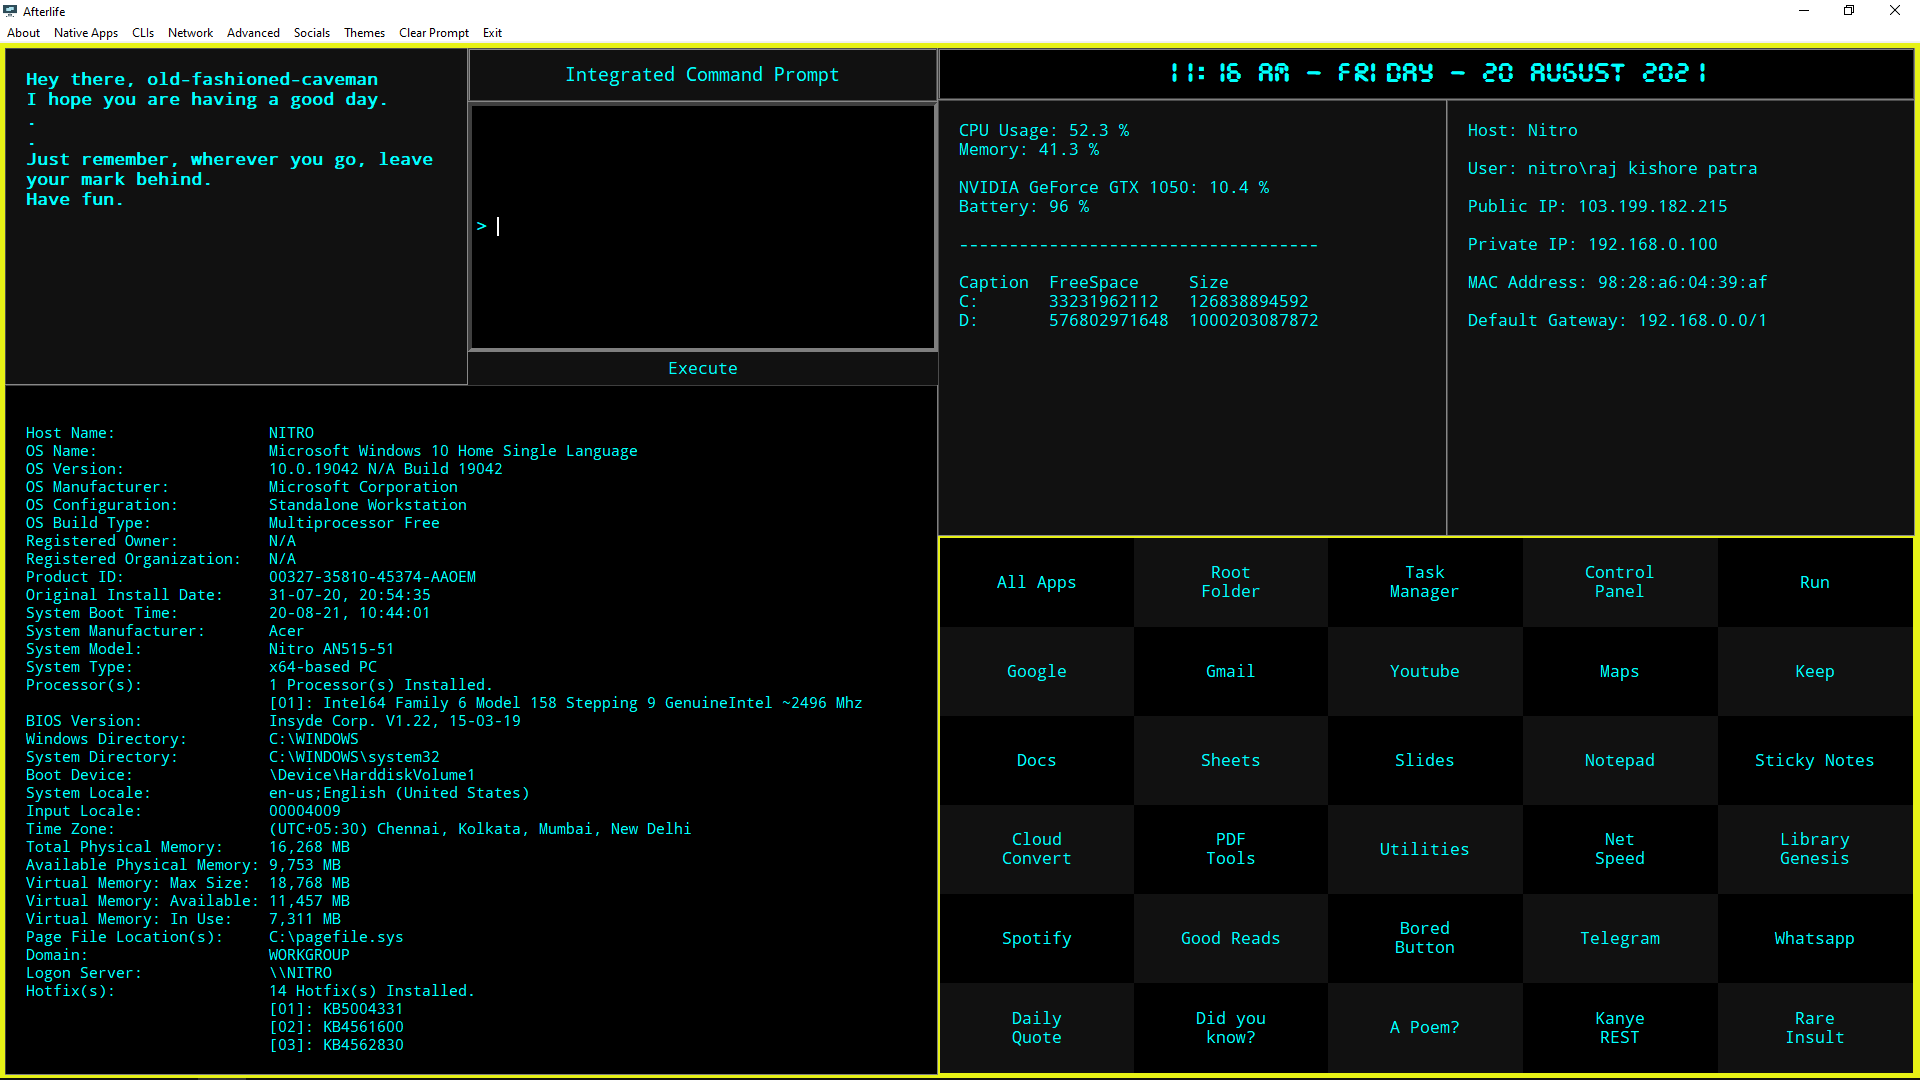
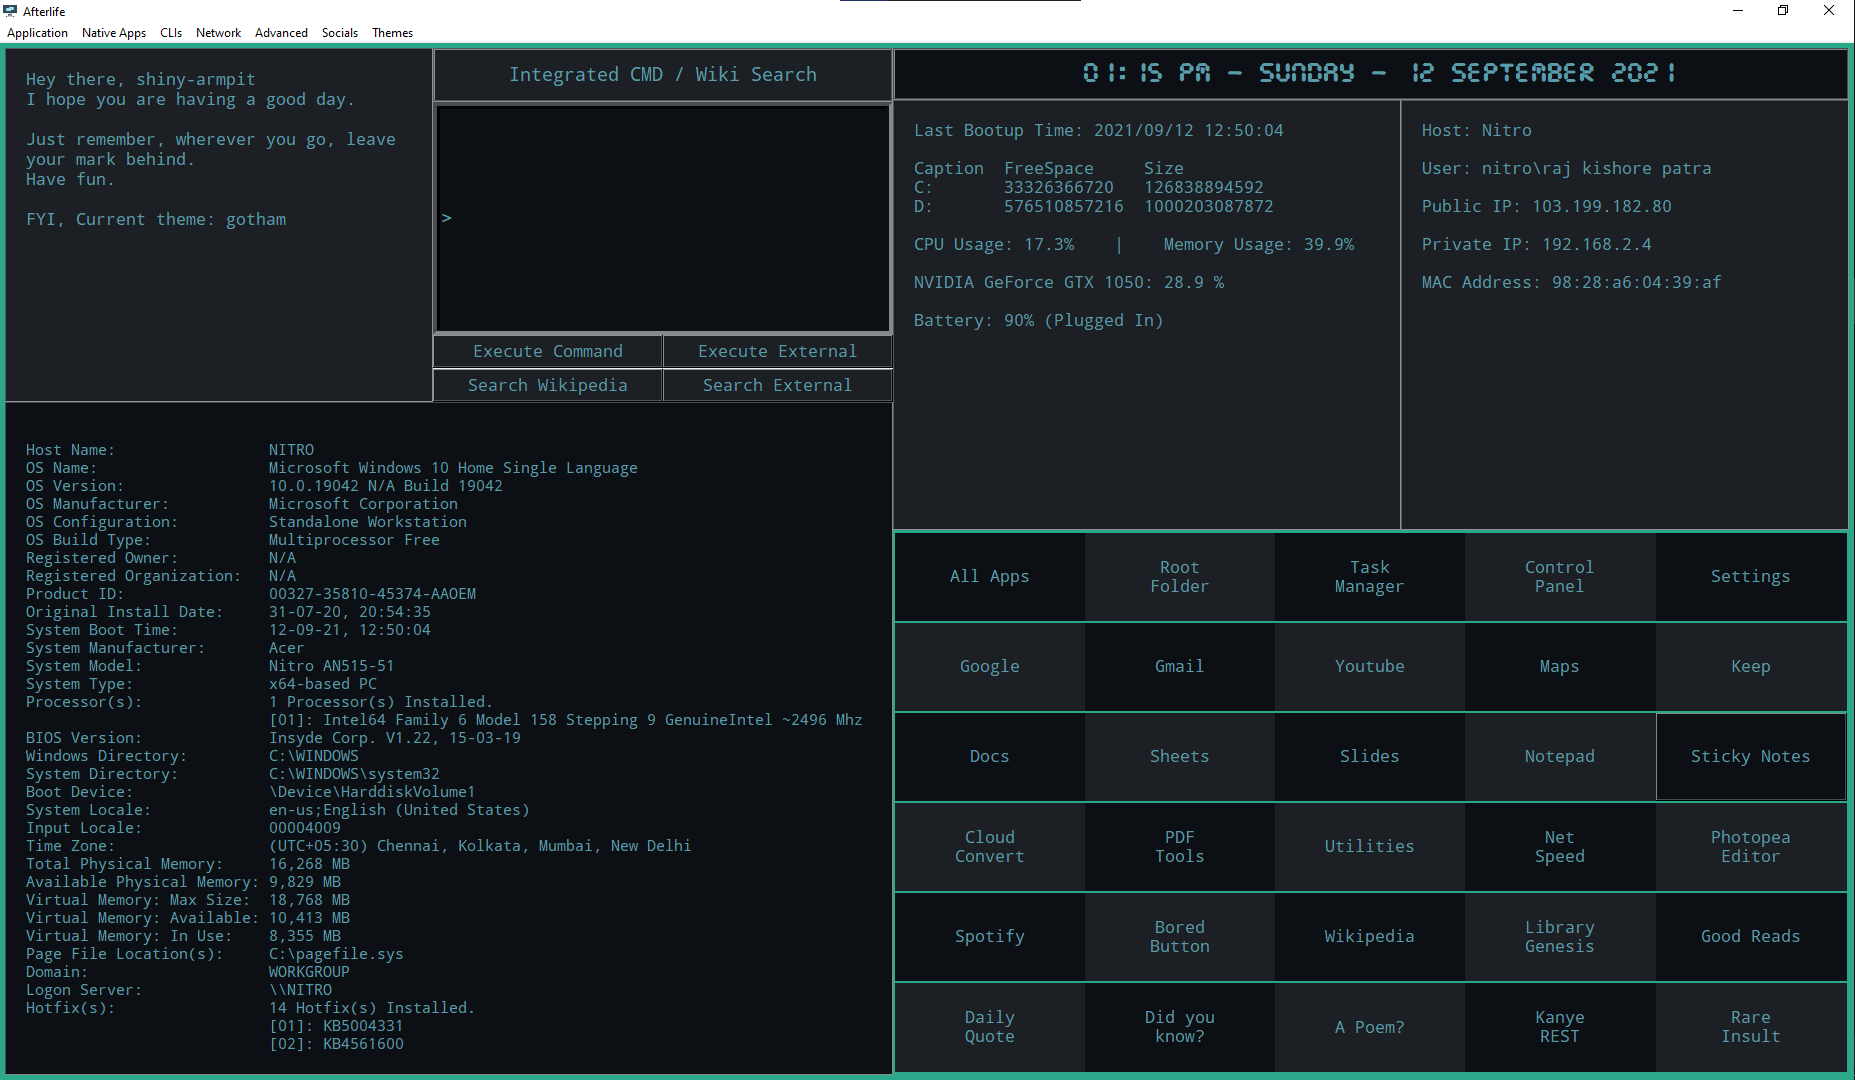
Changed README Screenshot

diff --git a/afterlife.py b/afterlife.py
@@ -21,6 +21,7 @@ class HUD:
         self.left = Frame(root)
         self.right = Frame(root)
         self.default_font = 'Maiandra GD'
+        self.default_font = 'noto mono'
         self.timer_font = 'cursed timer ulil'
 
             # Widgets on root.left
@@ -65,7 +66,7 @@ class HUD:
             # Widgets on root.right
         self.clock = Label(self.right, bg=scheme.THEMES[CHOICE]['primary'], relief=GROOVE,
                             fg=scheme.THEMES[CHOICE]['fg'], height=2, width=20,
-                            font=(self.default_font, 18, 'bold'))
+                            font=(self.timer_font, 18, 'bold'))
         self.info = Frame(self.right, height=1)
         self.buttons = Frame(self.right, width=80,
                                 height=50, bg=scheme.THEMES[CHOICE]['root'], padx=2, pady=2)
